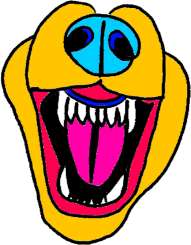
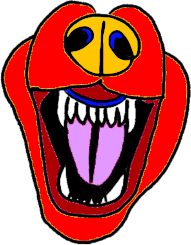
model tweaks, new mad

diff --git a/earth/templates/earth_cheer.html b/earth/templates/earth_cheer.html
@@ -17,12 +17,13 @@
         {% else %}we are waiting for the Body to find the next story fragment...
         {% endif %}
       </p>
-        Send energy: <br/>
+        <p>
         <img src="{% static 'love.png' %}" onclick="send_energy('l')" width=10% id="img_l">
         <img src="{% static 'power.png' %}" onclick="send_energy('p')" width=10% id="img_p">
         <img src="{% static 'funny.png' %}" onclick="send_energy('f')" width=10% id="img_f">
         <img src="{% static 'sad.png' %}" onclick="send_energy('s')" width=10% id="img_s">
         <img src="{% static 'mad.png' %}" onclick="send_energy('m')" width=10% id="img_m">
+			</p>
     </div>
 	  <footer>"We Called It Earth", by Jessica Renfro & Hadi Asghari</footer>
 
@@ -38,17 +39,22 @@
 			}
 			ajax.send();
 		}
+		var sending = 0;
 		async function send_energy(s) {
-			var ajax = new XMLHttpRequest();
-			var url = '{% url "earth_sendenergy" participant.pk %}?energy=' + s;
-			ajax.open('GET', url, true);
-			ajax.send();
-			// some dramatic effect:
-			var img = document.getElementById('img_' + s);
-			var drama = "w3-animate-opacity"; // "w3-spin";
-			img.classList.add(drama);
-			await new Promise(r => setTimeout(r, 500));
-			img.classList.remove(drama);
+			if (sending == 0) {
+				sending++;  // limit simultenous energies
+				var ajax = new XMLHttpRequest();
+				var url = '{% url "earth_sendenergy" participant.pk %}?energy=' + s;
+				ajax.open('GET', url, true);
+				ajax.send();
+				// some dramatic effect:
+				var img = document.getElementById('img_' + s);
+				var drama = "w3-animate-opacity"; // "w3-spin";
+				img.classList.add(drama);
+				await new Promise(r => setTimeout(r, 500));
+				img.classList.remove(drama);
+				--sending;
+			}
 		}
 		</script>
 

diff --git a/earth/views.py b/earth/views.py
@@ -20,6 +20,13 @@ def web_home(request):
     if not parti:
         return response
 
+
+    # TODO game 'states'
+    # - wait-start
+    # - write (active-rpompt/writing/camera)
+    # - search (we just wait) + revive + dance + continue:  in all we can send energy
+    # - credits (finished, show all messages)
+
     # 3A. did we get a form response, then save it and reload
     if 'f_text' in request.GET:
         f_t = request.GET['f_text']
@@ -46,7 +53,7 @@ def web_home(request):
     texts = Text.objects.filter(game=game, participant=parti).order_by('-pk')
     last = texts[0].text if texts else None
     # TODO: after the first prompt, the active prompt will change to a random suer entered one
-    return render(request, 'earth_prompt.html', {'emoji': parti.emoji, 'lastsaid': last,
+    return render(request, 'earth_write.html', {'emoji': parti.emoji, 'lastsaid': last,
                                                  'prompt': game.active_prompt, 'gamek': game.pk,})
 
 
@@ -63,7 +70,10 @@ def get_participant_or_httpresponse(game, request):
             n = Participant.objects.filter(game=game, emoji=e).count()
             e += str(n+1)
         parti = Participant.objects.create(game=game, emoji=e)
-        parti.geo = get_client_ip(request)  # MAYBE: actually store geolocation of participant!
+        parti.geo = get_client_ip(request)
+        if '.' in parti.geo:
+            # pseudonymize the client IP address for privacy (needs fix for IPv6)
+            parti.geo = ".".join(parti.geo.split('.')[:2]) + ".0.0"
         parti.save()
         request.session['participant'] = parti.pk  # cache for next time
         return None, HttpResponseRedirect(reverse('earth_webhome'))
@@ -171,9 +181,9 @@ def godot_new_game(request):
     Text.objects.create(game=game, participant=parti, text="Hello World!")
     # let's also delete all empty participants & games, while at it, to clear admin UX
     Participant.objects.filter(text__isnull=True).delete()
-    GamePlay.objects.filter(participant__isnull=True,
-                            text__isnull=True,
-                            gamelog__isnull=True).delete()
+    # we should probably delete all system stuff
+    GamePlay.objects.filter(text__isnull=True).delete()
+    # was: participant__isnull=True, gamelog__isnull=True).delete()
     return JsonResponse(game.pk, safe=False)
 
 
@@ -209,7 +219,7 @@ def godot_get_stats(request, gamek):
 
     data = {'participants': emojies,
             'q_energy': energies,  # lets rename on server
-            'q_lastk': 0,  # unnecessay
+            'q_lastk': 0,  # TODO: unnecessay (remove upon changing godot code)
             'lastsave': "",}  # TODO: LAST SAVE IF NECESSARY (PERHAPS NOT)
     return JsonResponse(data)
 
@@ -226,10 +236,22 @@ def godot_set_prompt(request, gamek, promptk):
     return JsonResponse(po.provocation, safe=False)
 
 
-def godot_save_game(request, gamek, loc):
-    # reset activeprompt and save location
+def godot_set_state(request, gamek, state):
+    # game state has changed, record it for web users....
     go = GamePlay.objects.get(pk=gamek)
-    go.active_prompt = None
-    go.last_save = loc
+    go.state = state
+    if state.lower() != "writing":
+        go.active_prompt = None
     go.save()
+    # also let's create a log for this change
+    GameLog.objects.create(game=go, event="st_" + state)
+    return JsonResponse(True, safe=False)
+
+
+def godot_log_event(request, gamek, event):
+    # this method is used to log major game events as they happen (incl death etc)
+    info = None
+    if 'info' in request.GET:
+        info = request.GET['info']
+    GameLog.objects.create(game=go, event=event, info=info)
     return JsonResponse(True, safe=False)

diff --git a/earth/models.py b/earth/models.py
@@ -8,7 +8,8 @@ class GamePlay(models.Model):
 	game_ver = models.IntegerField(default=1)  # (for future game versions)
 	godot_ip = models.CharField(max_length=50, null=True, blank=True)
 	active_prompt = models.ForeignKey('Prompt', on_delete=models.SET_NULL, null=True, blank=True)
-	#last_save = models.CharField()  # understood by godot >> use GameLog instead!
+	state = models.CharField(max_length=10, blank=True, default="")
+	#last_save = models.CharField()  # understood by godot >> use GameLog instead for level
 	description = models.TextField(blank=True, null=True)  # (for ourselves to recall this game)
 
 	def __str__(self):
@@ -16,7 +17,7 @@ class GamePlay(models.Model):
 
 
 class Participant(models.Model):
-	game = models.ForeignKey(GamePlay, on_delete=models.PROTECT, null=True)
+	game = models.ForeignKey(GamePlay, on_delete=models.CASCADE, null=True)  # can delete if has no Texts (PROTECT)
 	joined_at = models.DateTimeField(default=timezone.now)
 	emoji = models.CharField(max_length=10, default="👓")  # (similar to nickname, for game users)
 	geo = models.CharField(max_length=50, blank=True, null=True)  # ip or geolocation
@@ -26,19 +27,19 @@ class Prompt(models.Model):
 	# we have some initial prompts. load fixture with: `manage.py loaddata`
 	provocation = models.CharField(max_length=500)  # The Prompt Question
 	active = models.BooleanField(default=True)
-	description = models.TextField(blank=True, null=True)
+	comments = models.TextField(blank=True, null=True)
 	# maybe in future: add a picture for the prompt
-	# location & fill correctly are view related and set in godot (not in django/db)
+	# design note: location is 'view related' and hence set in godot (not in django/db)
 
 	def __str__(self):
 		return f"{self.pk} ({self.provocation[:10]}...)"
 
 
 class GameLog(models.Model):
-	game = models.ForeignKey(GamePlay, on_delete=models.PROTECT)
+	game = models.ForeignKey(GamePlay, on_delete=models.CASCADE)  # can delete
 	time = models.DateTimeField(default=timezone.now)
 	event = models.CharField(max_length=20, default="", blank=True)
-	info = models.CharField(max_length=200, blank=True, null=True) 
+	info = models.CharField(max_length=200, blank=True, null=True)
 
 
 class Text(models.Model):

diff --git a/earth/urls.py b/earth/urls.py
@@ -13,5 +13,6 @@ urlpatterns = [
     url(r'^gogettexts/(?P<gamek>\d+)/(?P<promptk>\d+)$', views.godot_get_texts),
     url(r'^gogetstats/(?P<gamek>\d+)$', views.godot_get_stats),
     url(r'^gosetprompt/(?P<gamek>\d+)/(?P<promptk>\d+)$', views.godot_set_prompt),
-    url(r'^gosavegame/(?P<gamek>\d+)/(?P<loc>.+)$', views.godot_save_game),
+    url(r'^gosetstate/(?P<gamek>\d+)/(?P<state>.+)$', views.godot_set_state),
+    url(r'^gologevent/(?P<gamek>\d+)/(?P<event>.+)$', views.godot_log_event),
 ]
